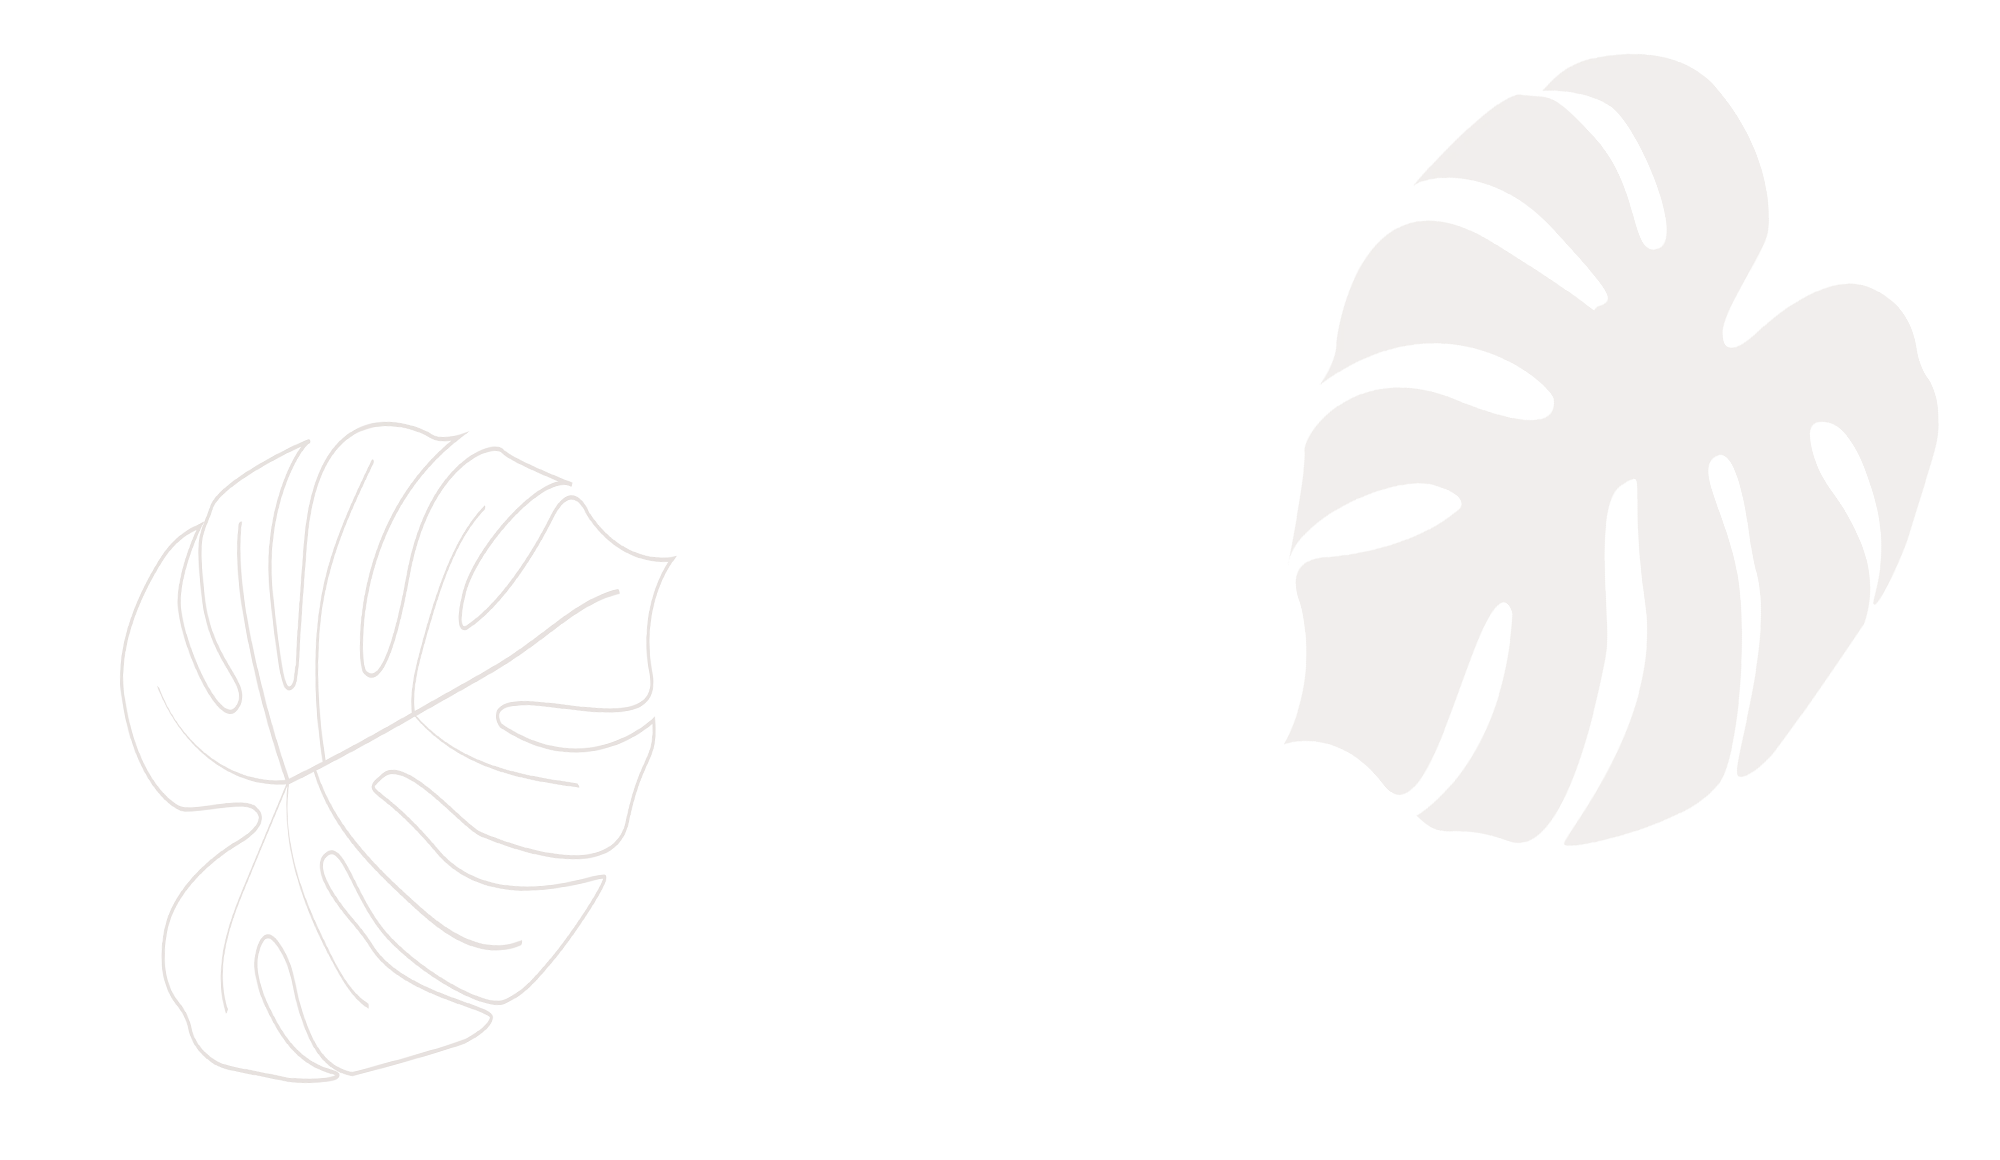
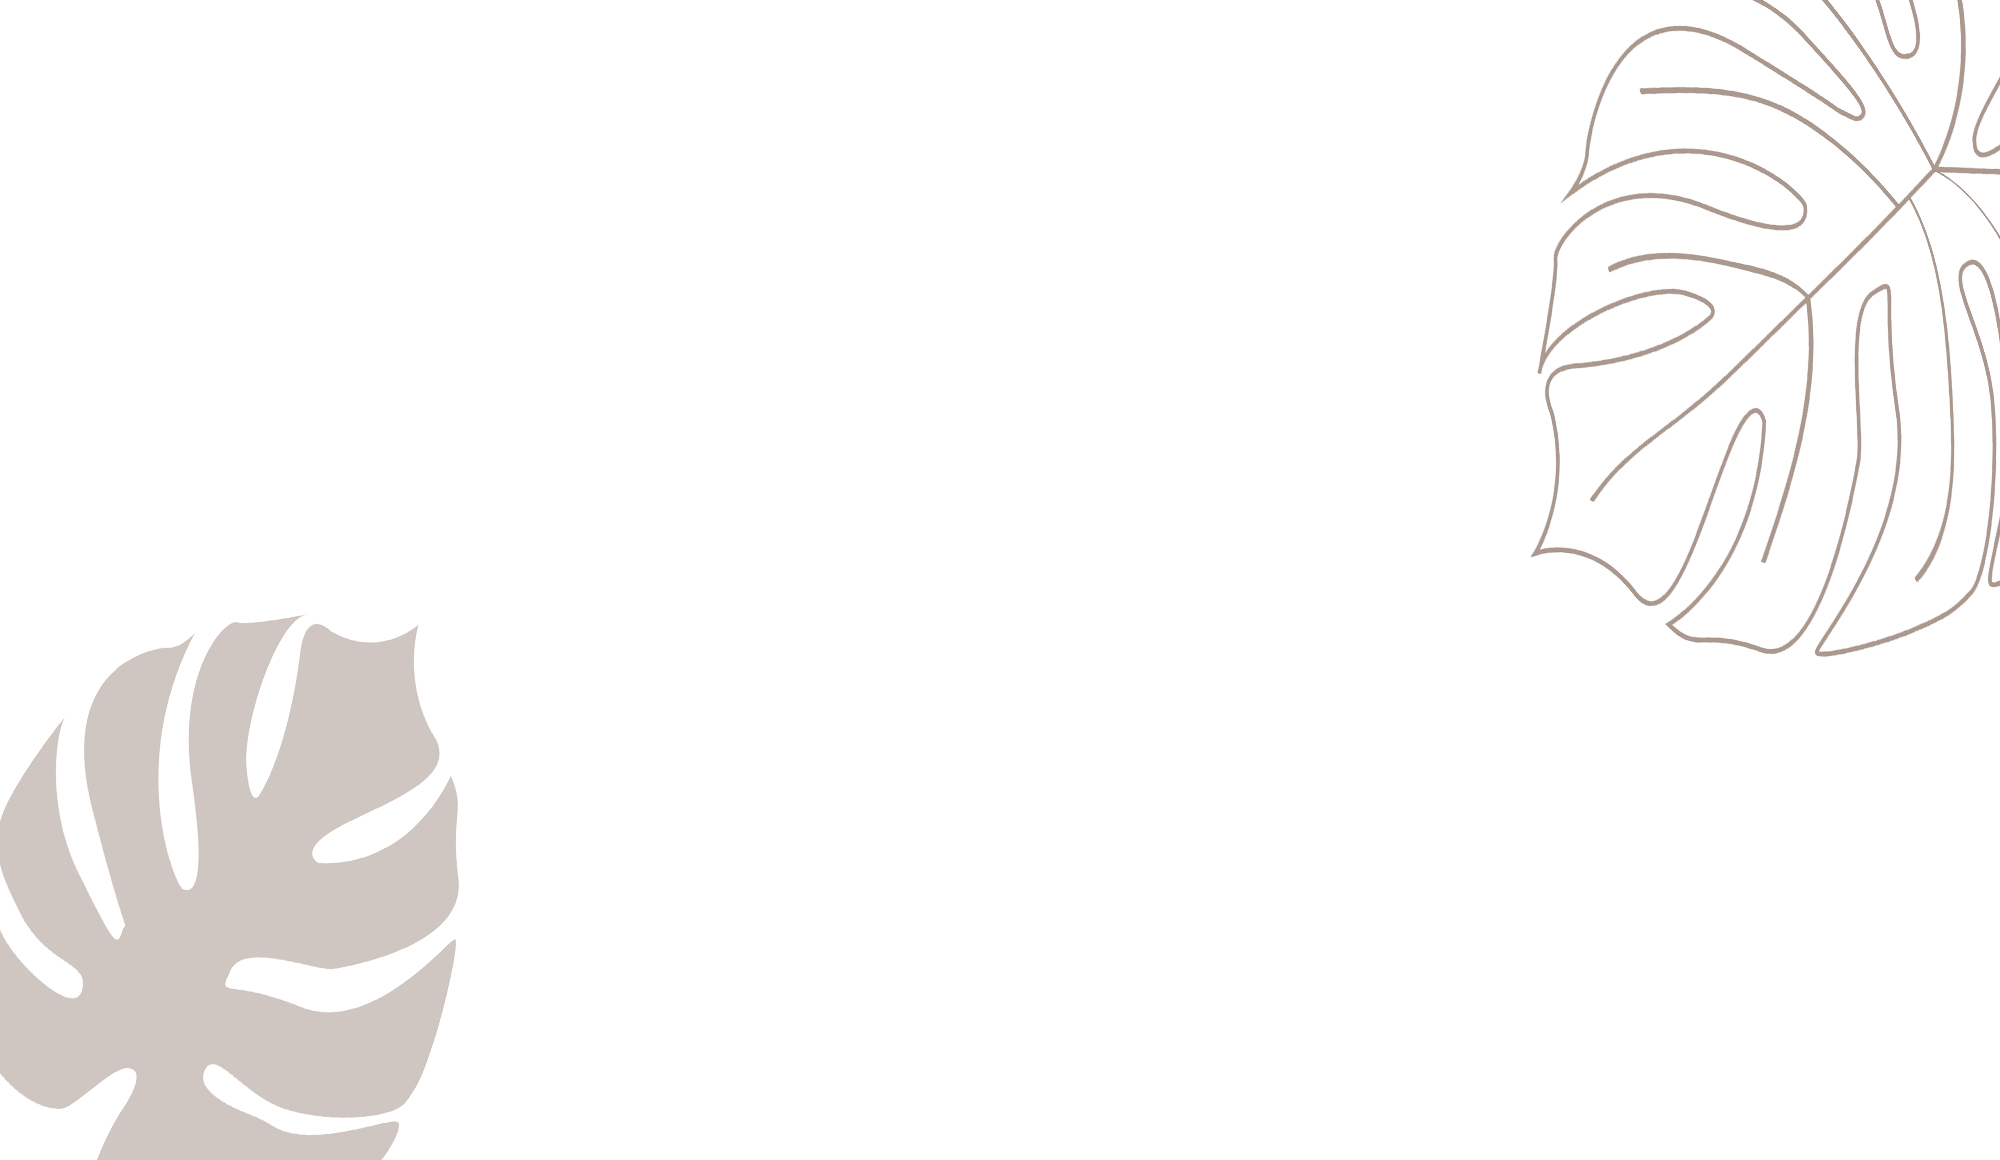
img z-index

diff --git a/css/styles.scss b/css/styles.scss
@@ -192,10 +192,8 @@ body {
 @media (max-width: 767.98px) {
   .monstera-bg {
     position: absolute;
-    top: 0;
-    left: 0;
-    max-width: 10%;
-    opacity: 0.1;
+    opacity: 0.3;
+    width: 100%;
     z-index: -1;
     pointer-events: none;
   }
@@ -205,17 +203,15 @@ body {
 @media (min-width: 768px) {
   .monstera-bg {
     position: absolute;
-    top: 0;
-    left: 0;
-    max-width: 40%;
-    opacity: 0.1;
+    opacity: 0.3;
+    width: 90%;
     z-index: -1;
     pointer-events: none;
   }
 
 }
 
-.text {
+.text-overlay {
   position: relative;
   z-index: 1;
 }

diff --git a/index.php b/index.php
@@ -27,18 +27,19 @@ require "settings/init.php";
 
 <div class="container mt-0 mt-lg-4 mt-md-4">
 
+    <div class="position-relative">
+        <img src="img/fMonstera.webp" class="d-block img-fluid monstera-bg" alt="monstera blad">
+    </div>
+
     <div class="row">
-        <div class="col-12 text-center position-relative">
+        <div class="col-12 text-overlay text-center position-relative">
             <p class="text text-lb m-0 display-3" style="font-family: Zodiak">Velkommen til </p>
             <p class="text text-lb m-0 fw-medium display-3" style="font-family: Zodiak">Skønhedssalon THEIA</p>
             <p class="text text-lb m-0 fst-italic display-3" style="font-family: Zodiak">– din oase af skønhed og ro</p>
 
-            <p class="text text-db mt-3 fs-3" style="font-family: Zodiak">
+            <p class="text-overlay text-db mt-3 fs-3" style="font-family: Zodiak">
                 Eksklusive behandlinger i rolige omgivelser – <br> negle, vipper & bryn
             </p>
-            <div class="position-absolute monstera-bg">
-                <!-- <img src="img/monstera.webp" class="" alt="monstera blad"> -->
-            </div>
         </div>
     </div>
 </div>
